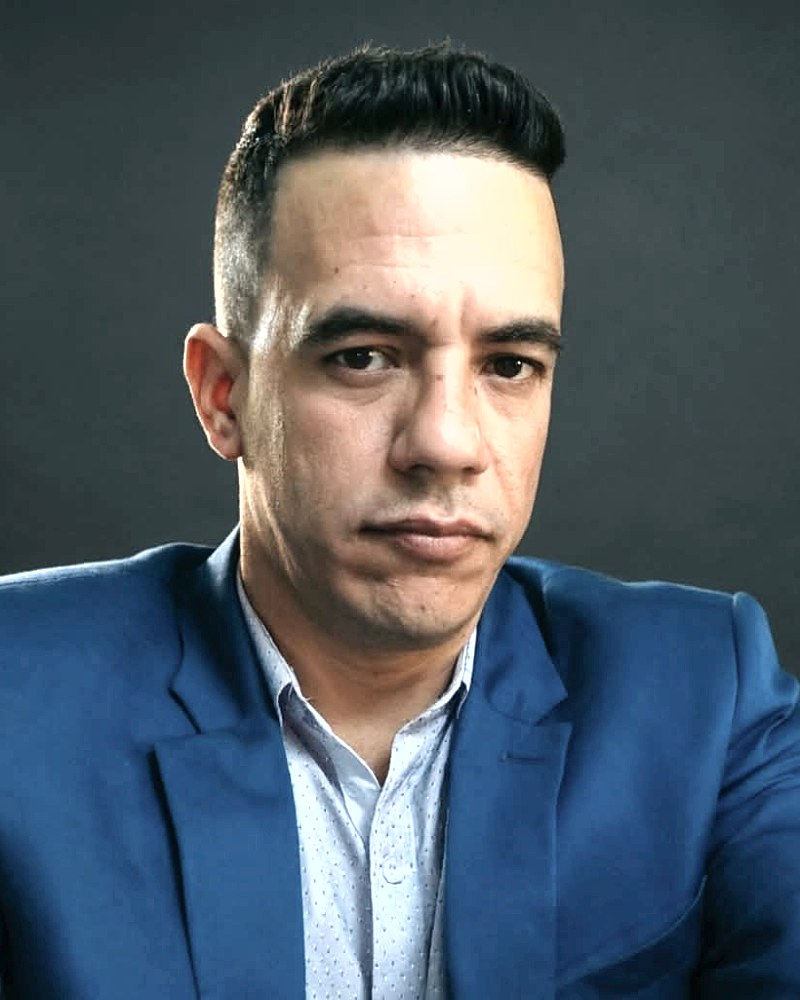
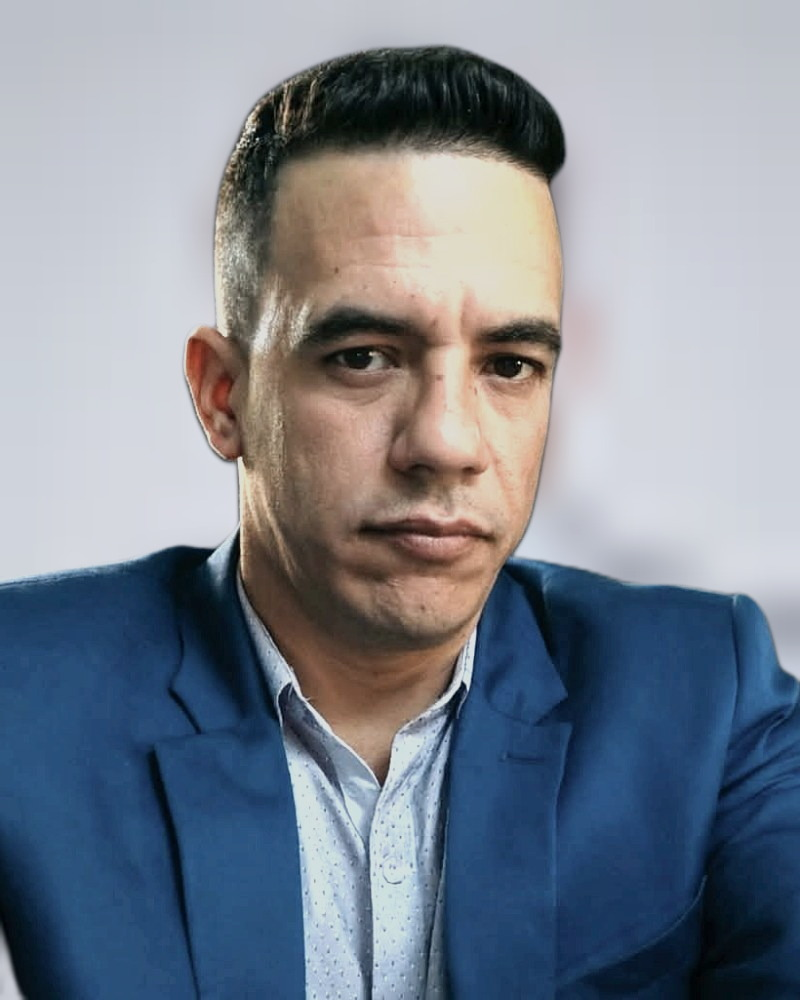
Foto de Pedro Luis con fondo y brillo del equipo; modo noche negro con colores de marca; esquinas redondeadas en contenedores; tarjetas del hero sobre el borde del circulo

diff --git a/src/app/globals.css b/src/app/globals.css
@@ -28,24 +28,26 @@
   color-scheme: light;
 }
 
+/* Noche: base casi negra y los colores de marca (azul/electrico) como acento,
+   en vez del azul marino plano anterior. */
 .theme-dark {
   --blue: #4aa8e8;
   --blue-dark: #2f8fd6;
-  --ink: #eaf3fb;
-  --muted: #9fb6c9;
-  --pale: #163a56;
-  --line: #28536f;
-  --electric: #62b8f5;
-  --navy: #0e2a40;
-  --white: #1a4262;
+  --ink: #e8f1f9;
+  --muted: #93a9bd;
+  --pale: #10161d;
+  --line: #223040;
+  --electric: #5cb3f2;
+  --navy: #0a1017;
+  --white: #121922;
 
-  --bg: #12314a;
-  --bg-soft: #163a56;
-  --header-bg: #12314af2;
-  --card: #1a4262;
-  --shadow-sm: 0 12px 25px #06192b40;
-  --shadow-md: 0 14px 40px #06192b55;
-  --shadow-lg: 0 28px 70px #06192b60;
+  --bg: #05080b;
+  --bg-soft: #0b1015;
+  --header-bg: #05080bf2;
+  --card: #0f151c;
+  --shadow-sm: 0 12px 25px #00000066;
+  --shadow-md: 0 14px 40px #00000080;
+  --shadow-lg: 0 28px 70px #0000008c;
   color-scheme: dark;
 }
 
@@ -253,6 +255,12 @@ svg { width: 1em; height: 1em; }
   display: flex; align-items: center; justify-content: center;
 }
 .theme-dark .visual { background: radial-gradient(ellipse, #16405c 0, #123449 46%, transparent 72%); }
+/* Recorta solo la orbita giratoria (cuyo rectangulo exterior crece al girar)
+   sin cortar las tarjetas flotantes, que deben sobresalir del circulo. */
+.visual__clip {
+  position: absolute; inset: 0; border-radius: 50%; overflow: hidden;
+  pointer-events: none;
+}
 .visual__grid {
   position: absolute; inset: 18px;
   background-image: radial-gradient(#80bae655 1px, transparent 1px);
@@ -288,7 +296,10 @@ svg { width: 1em; height: 1em; }
 .floating b { font-size: 12px; display: block; }
 .floating small { display: block; font-size: 10px; color: var(--muted); }
 .f1 { top: 56px; left: 8px; }
-.f2 { right: -6px; top: 172px; animation-delay: -2s; }
+/* Las tres tarjetas montan sobre el borde del circulo: f1 y f3 sobresalen por
+   la izquierda dentro del propio recuadro del visual, asi que f2 se ancla a la
+   derecha con un saliente equivalente. -28px cabe en el margen del `.wrap`. */
+.f2 { right: -28px; top: 172px; animation-delay: -2s; }
 .f3 { bottom: 58px; left: 12px; animation-delay: -3s; }
 .badgeicon {
   width: 33px; height: 33px; background: var(--pale); border-radius: 8px;
@@ -317,7 +328,9 @@ svg { width: 1em; height: 1em; }
 
 /* ------------------------------------------------------------ secciones */
 .section { padding-top: 96px; padding-bottom: 96px; }
-.section--pale { background: var(--pale); }
+/* Las secciones con fondo propio llevan esquinas redondeadas para no verse
+   como franjas a sangre. */
+.section--pale { background: var(--pale); border-radius: 20px; }
 .section h2 {
   font-size: clamp(30px, 3.3vw, 45px); line-height: 1.15; letter-spacing: -1.6px;
   font-weight: 550; margin: 16px 0 20px;
@@ -393,7 +406,11 @@ svg { width: 1em; height: 1em; }
 .theme-dark .bubble.agent { background: #1b4562; border-color: #2e6b8e; }
 .event { font-size: 11px; display: flex; gap: 8px; align-items: center; color: #28866b; }
 .theme-dark .event { color: #6fd3b2; }
-.demo-note { padding: 12px 22px; border-top: 1px solid var(--line); font-size: 10px; color: var(--muted); background: var(--bg-soft); }
+.demo-note {
+  padding: 12px 22px; border-top: 1px solid var(--line); font-size: 10px;
+  color: var(--muted); background: var(--bg-soft);
+  border-radius: 0 0 15px 15px;
+}
 
 /* ----------------------------------------------------------- proceso */
 .process { display: grid; grid-template-columns: repeat(3, 1fr); gap: 40px; margin-top: 42px; }
@@ -756,10 +773,10 @@ dialog.modal::backdrop { background: #073b7066; backdrop-filter: blur(5px); }
 }
 
 @media (max-width: 620px) {
-  /* El visual del hero es circular: hay que encogerlo o desborda el ancho.
-     `overflow: hidden` recorta la orbita giratoria, cuyo rectangulo exterior
-     crece al rotar y provocaba scroll horizontal. */
-  .visual { height: 370px; overflow: hidden; }
+  /* El visual del hero es circular y la orbita giratoria crece al rotar. El
+     recorte vive en `.visual__clip` (solo anillos); `.visual` queda visible
+     para que las tarjetas flotantes sobresalgan del circulo sin cortarse. */
+  .visual { height: 370px; }
   .orbit { width: 288px; height: 288px; }
   .orbit--outer { width: 336px; height: 336px; }
   .core { width: 130px; height: 130px; border-radius: 30px; }

diff --git a/src/components/home-top.tsx b/src/components/home-top.tsx
@@ -57,11 +57,16 @@ export function Hero({ dict }: { dict: Dict }) {
       </div>
 
       <div className="visual" role="img" aria-label={dict.a11y.heroVisual}>
-        <span className="visual__grid" aria-hidden="true" />
-        <span className="orbit" aria-hidden="true" />
-        <span className="orbit orbit--outer" aria-hidden="true" />
-        <span className="data-particle particle-a" aria-hidden="true" />
-        <span className="data-particle particle-b" aria-hidden="true" />
+        {/* El recorte va en este envoltorio, no en `.visual`: asi la orbita
+            giratoria queda contenida sin cortar las tarjetas flotantes, que
+            deben sobresalir del circulo. */}
+        <span className="visual__clip" aria-hidden="true">
+          <span className="visual__grid" />
+          <span className="orbit" />
+          <span className="orbit orbit--outer" />
+          <span className="data-particle particle-a" />
+          <span className="data-particle particle-b" />
+        </span>
 
         <div className="core">
           <strong>{h.coreValue}</strong>
